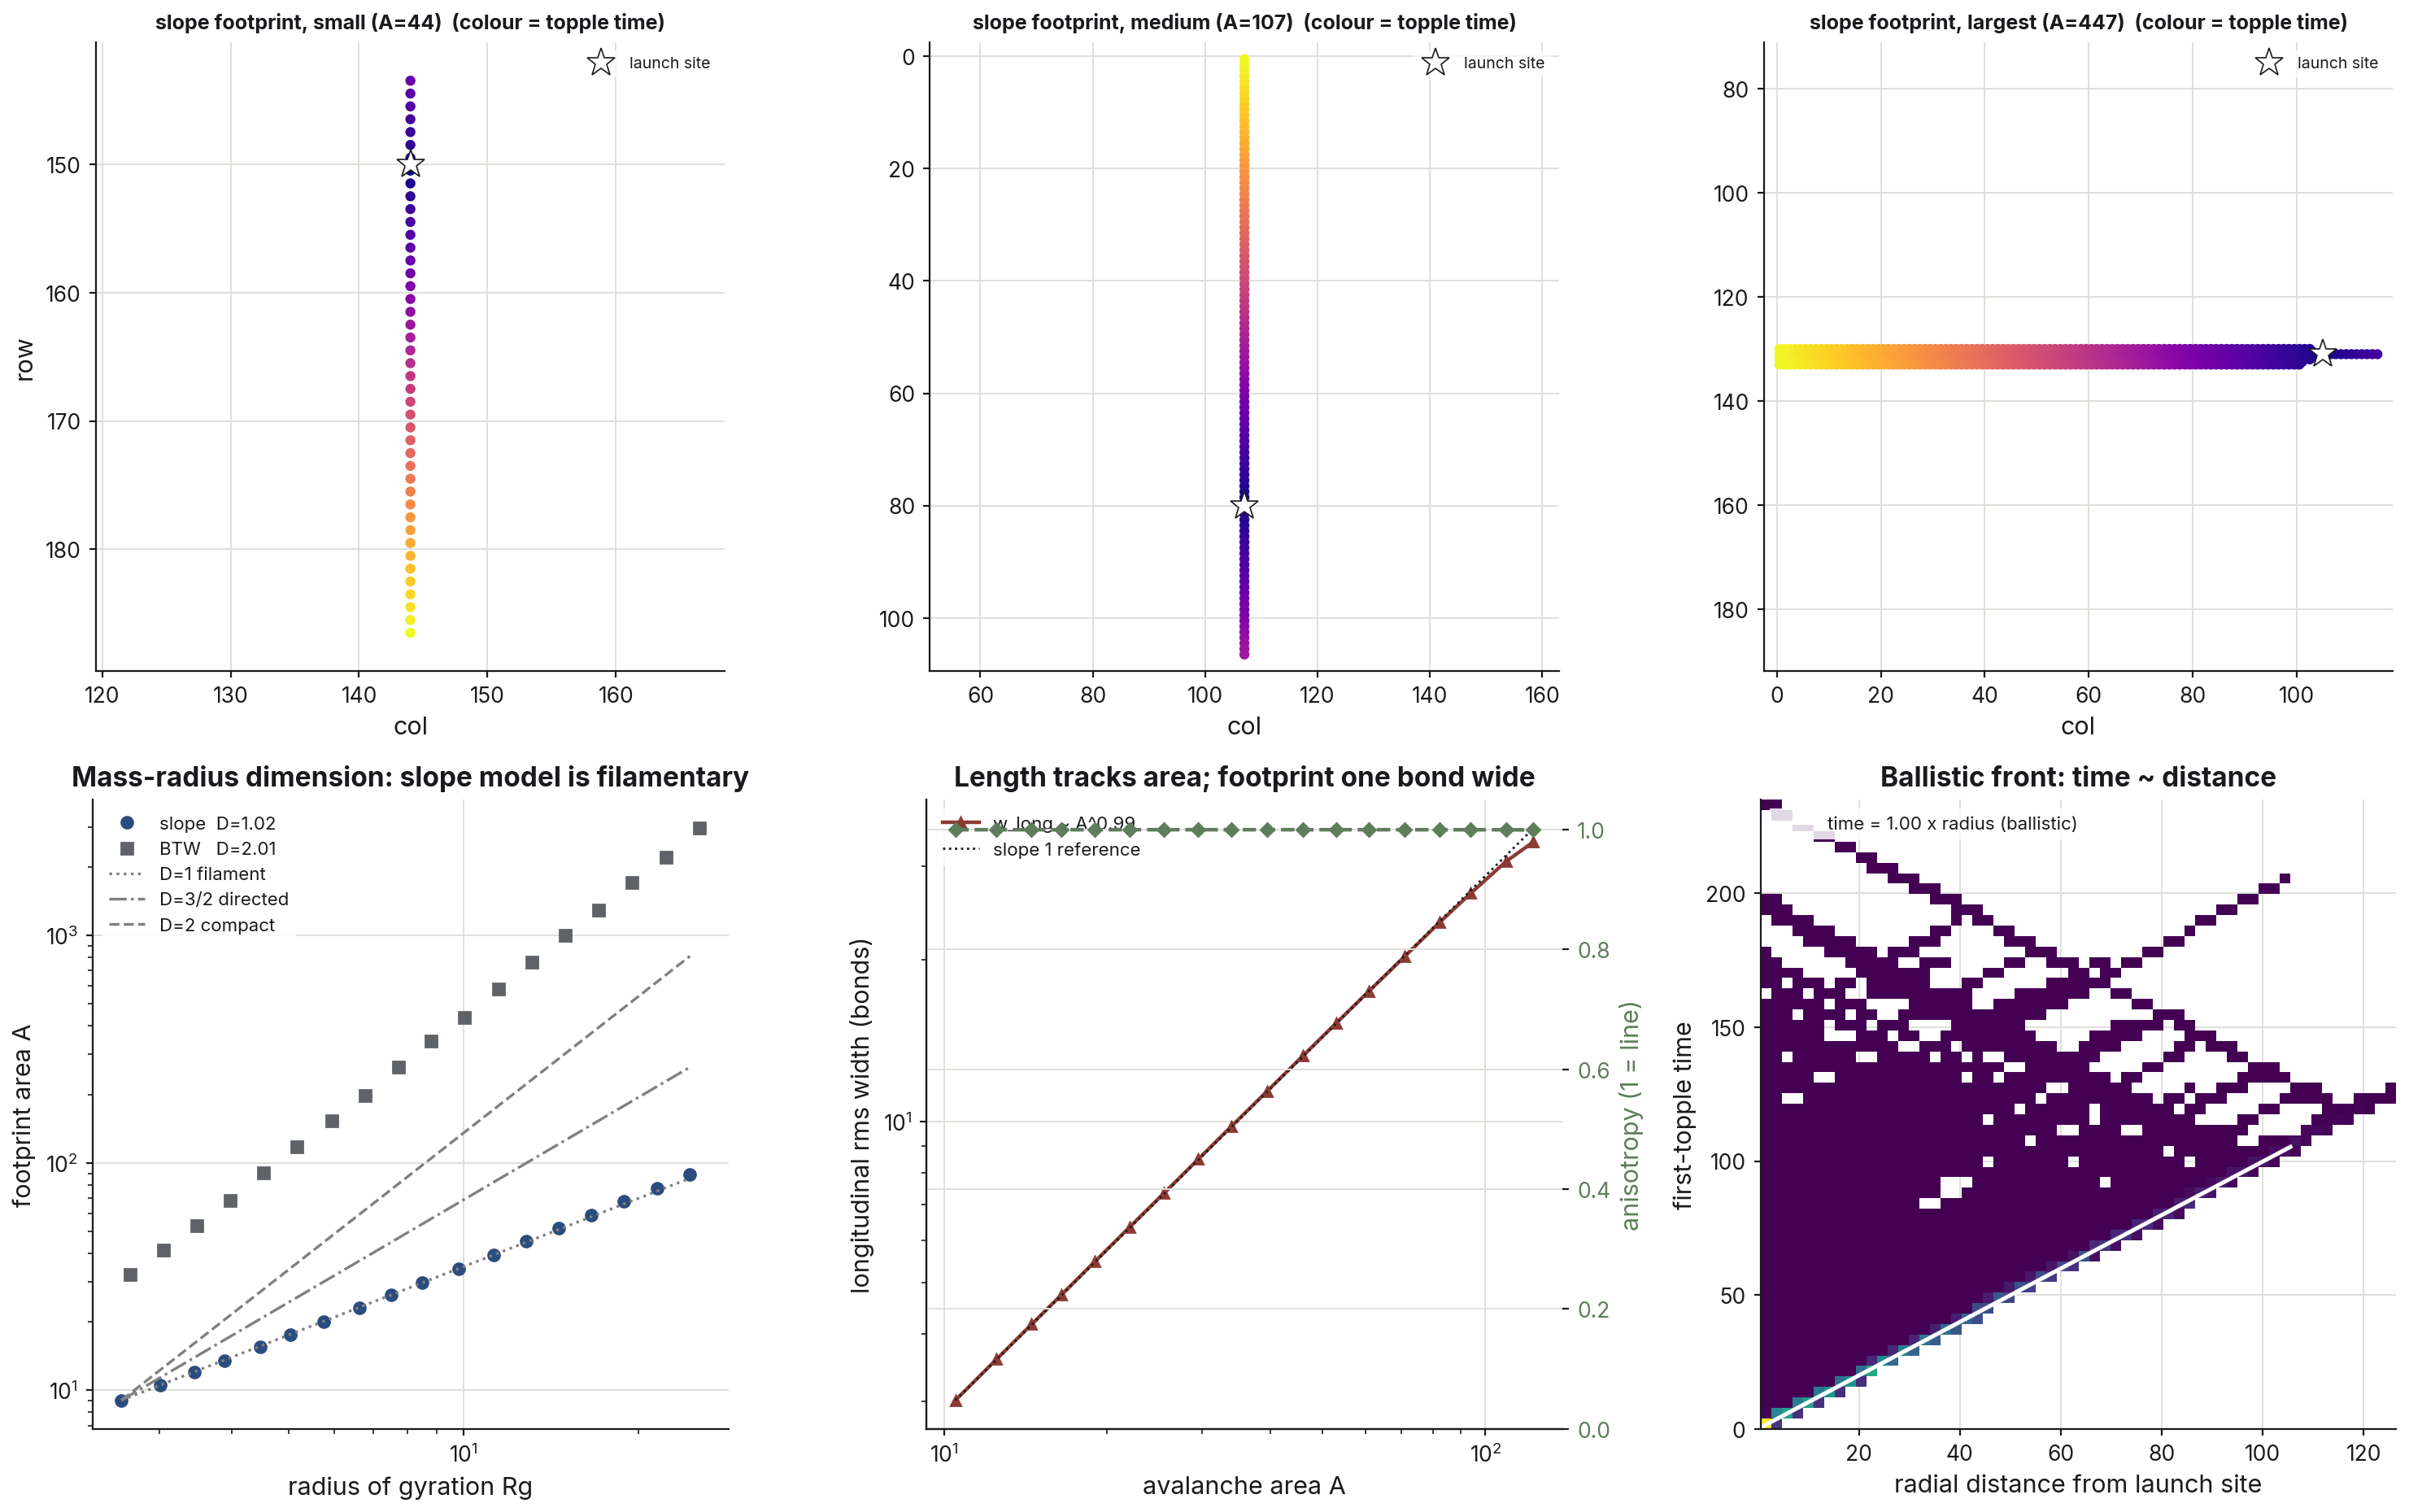
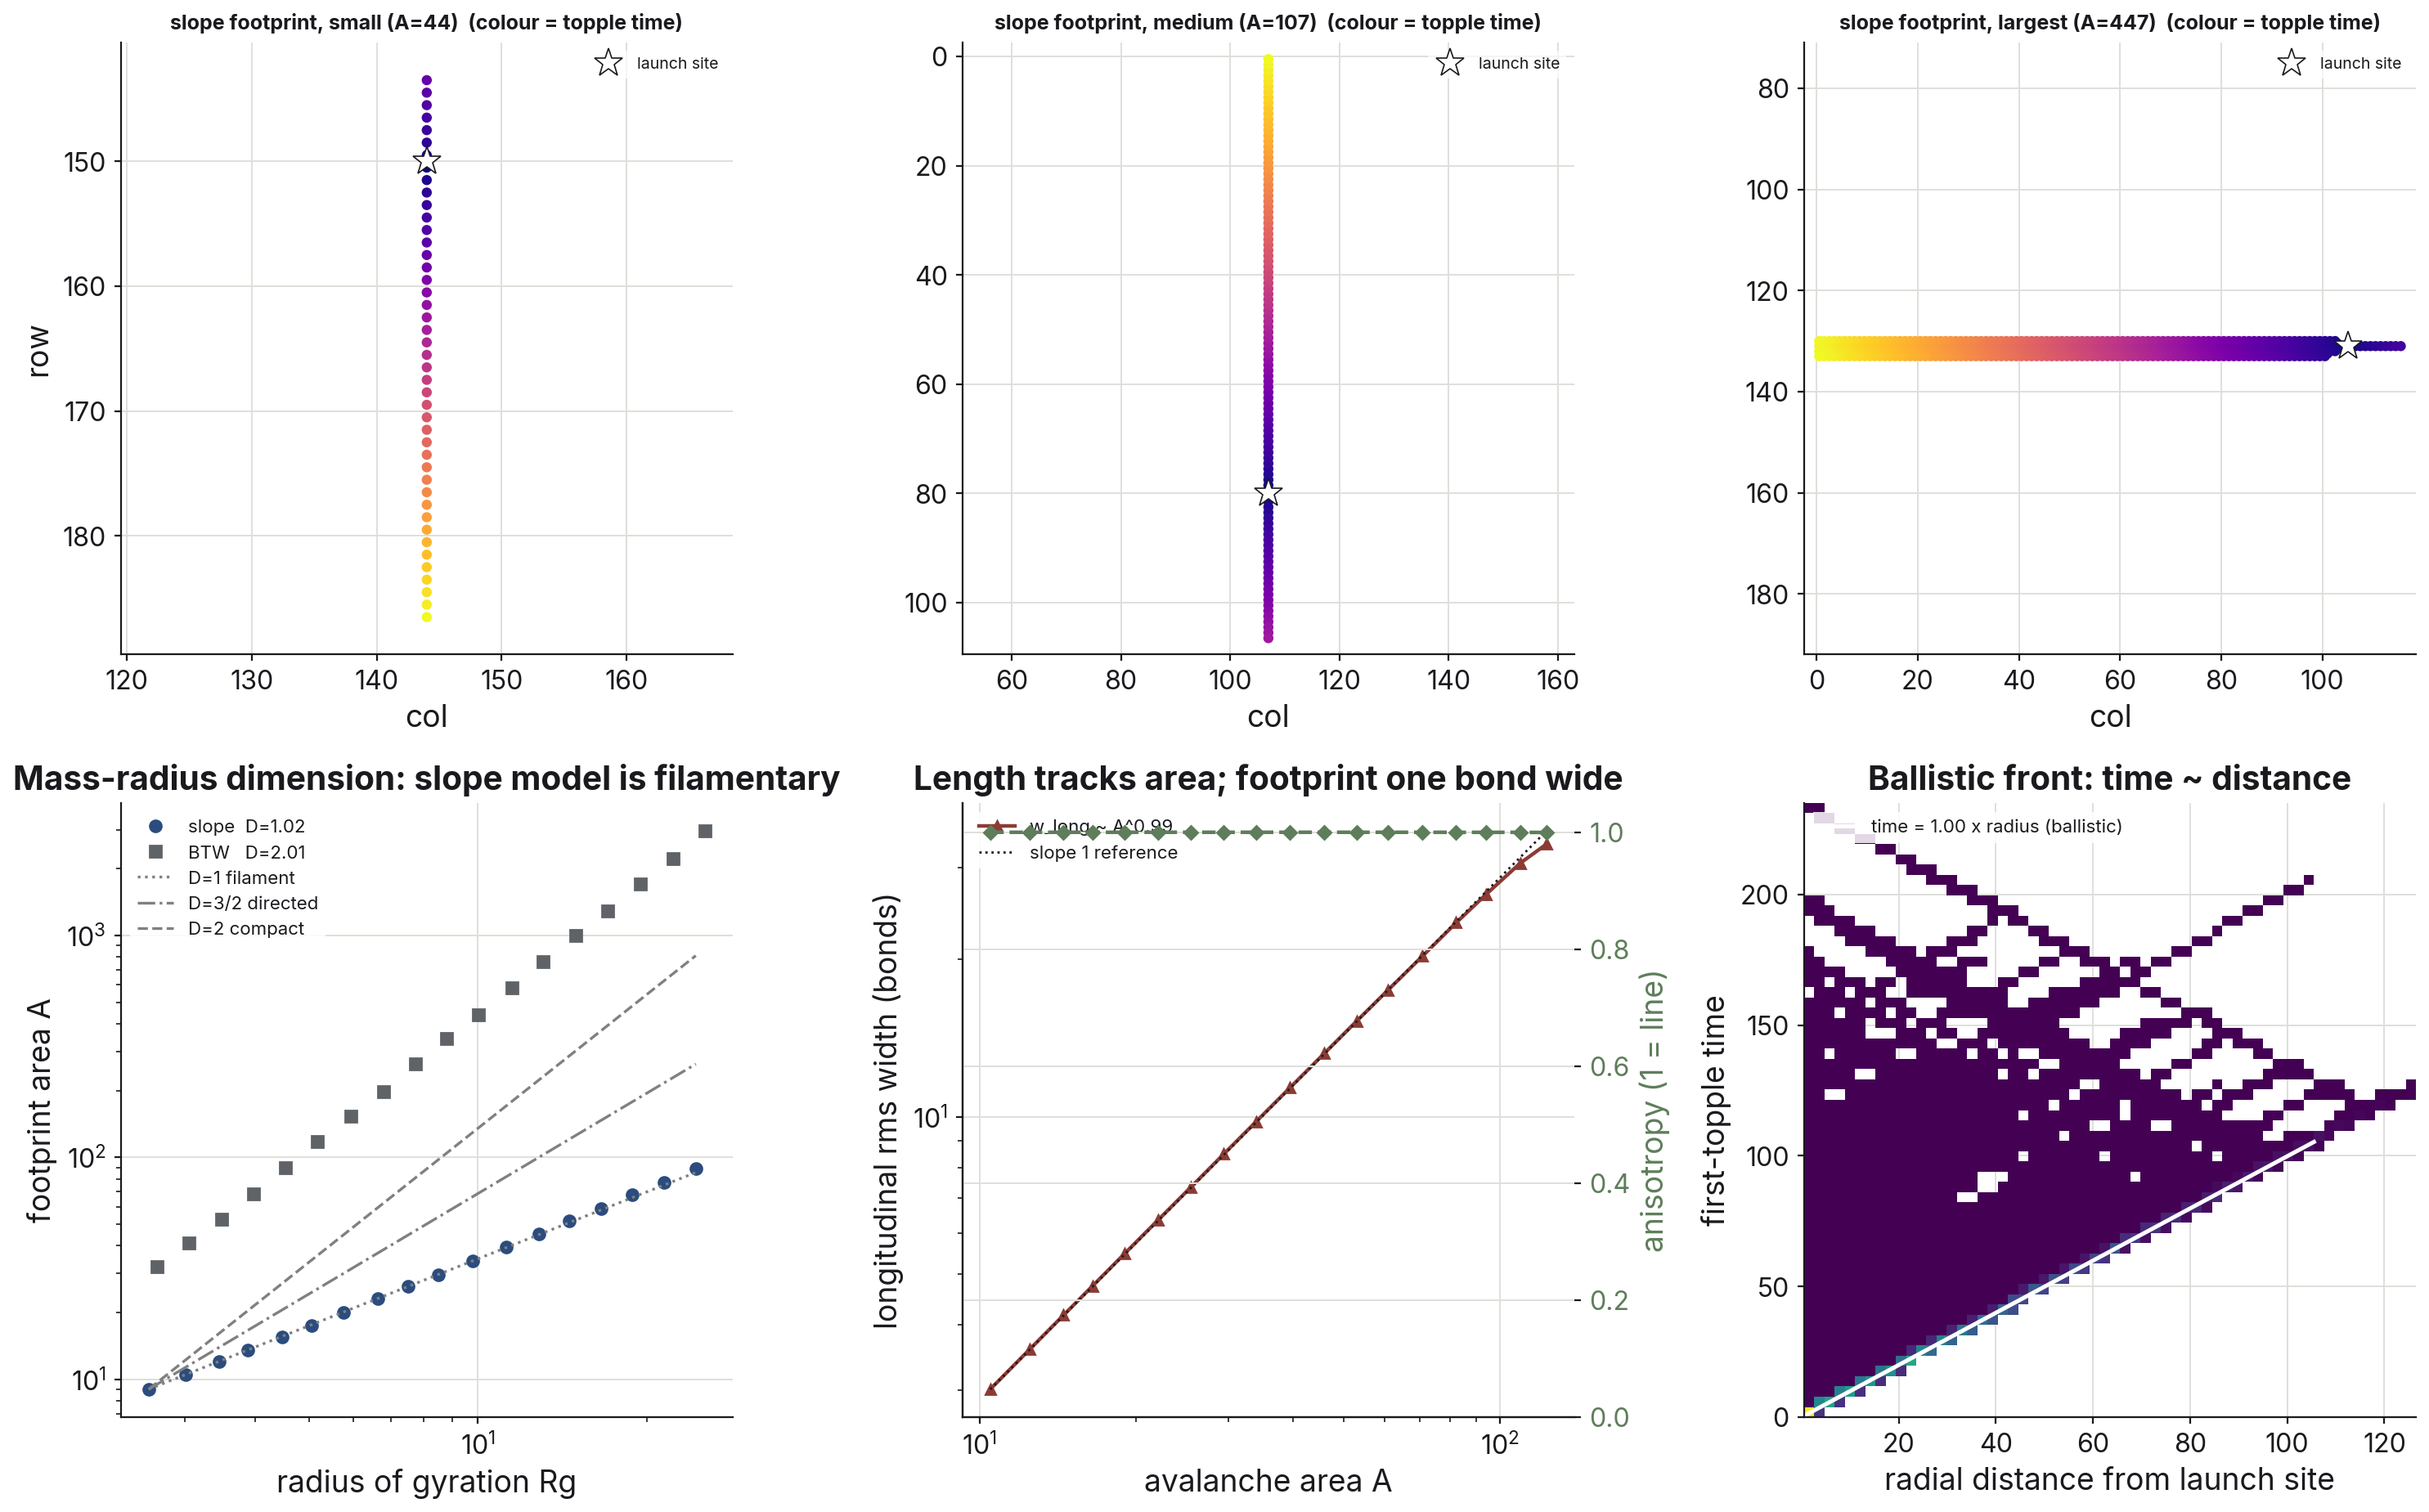
capstone: figure legibility pass
Audited all 18 site figures for effective on-page text size (11pt x
display/native width). Two fell near 10px from their own native width
and were re-rendered through the unchanged-script harness with new
figstyle env knobs (FIGSTYLE_FONT_SCALE / FIGSTYLE_TITLE_SCALE, default
1.0 = bit-identical): sandpile_geometry at 1.22x and filament_fattening
at 1.40x with titles at 1.05x. Both re-runs reproduced their findings
(D 1.02/2.01; mean/median slopes 0.99/0.90). many_wrongs_1 now displays
at wide width (10.8 -> 15.9px, no re-render, fallback rule intact).
Fixed the doubled-percent legend label (bottom 90%% area) in
filament_fattening.py. Colophon and log synced (155.25 h / 40 days /
180 commits).

diff --git a/logs.html b/logs.html
@@ -413,6 +413,11 @@
         <td class="hours-cell">3.50</td>
         <td>Capstone finalization: full acceptance-checklist pass on the live site, every quoted number re-verified against the findings files (one fix: the E6 jitter fraction), end-of-summer statistics recounted and corrected on the page, README brought to the summer-complete state, the two deliberately-open ship items closed, everything pushed and re-verified live. Summer closed.</td>
       </tr>
+      <tr data-date="2026-07-19">
+        <td class="date-cell">2026-07-19</td>
+        <td class="hours-cell">0.75</td>
+        <td>Figure legibility pass on the live site: measured every figure's effective on-page text size, re-rendered the two worst under the shared style with a new font-scale option (scripts untouched, numbers reproduced), widened the many-wrongs display, and fixed a doubled percent sign in a legend.</td>
+      </tr>
     </tbody>
     <tfoot>
       <tr>
@@ -599,6 +604,10 @@
     {
       date: "2026-07-18",
       body: "Closing day. The site has been live since Tuesday, but a checklist is not passed until every box is walked against the real page, so today was the deliberate finalization pass: go through the locked plan's acceptance criteria one by one on the live site, fix what they catch, and close the summer's books.\n\nThe number audit caught exactly one error. The earthquake section described the self-test jitter as one part in twenty-five per topple, but the finding draws alpha fresh within plus or minus 0.01 of its value of 0.15, which is one part in fifteen. The page now states it that way. Every other quoted number I re-checked, more than twenty across the three chapters, traced cleanly back to its numbered finding. The bigger catch was the colophon: its statistics had been computed when the capstone plan was written on July 9 and never moved, so the page was still reporting the totals as of July 5 (133.5 hours over 35 days, 166 commits, 130 scripts) while the capstone sessions themselves pushed the true numbers past them. The final accounting, recounted today from the log and the repository: 154.5 logged hours over 39 research days, 179 commits, 150 figures, 133 Python scripts, 123 findings. The capstone's own build hours were the one thing the capstone had failed to count.\n\nThree small repairs went in alongside. The page's research-log link now opens the rendered log instead of raw HTML source. A stylesheet edge case that could put a useless horizontal scrollbar on mid-width desktop windows (the viewport width unit includes the scrollbar gutter on Windows) is now clipped. And the README's opening, which still described the June state of the flocking chapter as the project status, now reads as the finished summer: three chapters, 123 findings, the sandpile chapter's closing results through the measured Manna anchor, and the site linked at its canonical address.\n\nOne more revision came out of reading the live page fresh: the launch-day voice pass had overshot. Too many paragraphs ended on a dramatic one-liner, and a few asides admired the work instead of reporting it. I went back through the whole page and flattened those into plain statements, cut the em dashes that had crept into the captions, and left every number untouched. A second read caught the quieter versions of the same thing, signpost fragments and rhetorical pivots, and cut those too. The page reads closer to a lab notebook now, which is the register it should have had from the start. The prose source file was updated to match.\n\nLooking at the page on a full 1920-pixel screen also showed the layout reading sparse: a small text block in a sea of margin, undersized figures, and the contents list floating in the gutter where the widest figures could slide under its longest lines while scrolling. Screens past 1600 pixels now get a larger scale, an 18-pixel body on a 720-pixel column with figures up to 1060, and the contents list is anchored just clear of the wide-figure edge at every width.\n\nThe teaser composite needed more than a stylesheet fix and got a presentation rebuild: its type was landing below ten screen pixels at display size, the three example footprints floated far apart with the one-bond filament drawn so thin it nearly vanished, and the forecast panel buried its events under dense stems with the legend sitting on the data. The rebuilt version sizes its type for the page, sets the footprints closer with the filament drawn heavy enough to carry the panel, and thins the forecast panel to a 50,000-iteration window with the legend in clear headroom. All three panels recompute from the research code with the same seeds, and the rebuild's printed checks reproduced the June numbers exactly: forecast precision 0.68 against chance 0.44, and 4 of the 43 largest events caught.\n\nThe two items I had left open on purpose are now closed. The byline stays course-only; the plan always allowed shipping without the advisor's name pending his OK, that is the right resting state, and adding the line later is a one-line edit if he confirms he wants it there. And the prose has had its final read in its real typography, which is what Tuesday's voice revision amounted to. After today's push the live page re-verified from a clean session at the canonical URL, preview card intact.\n\nThat is the summer. Three textbook chapters became three closed research arcs: a flock that is a directional averager with exactly one attack surface, a sandpile whose typical avalanche obeys an exact law while its tails keep their own statistics, and an earthquake model whose clock forecasts everything except the events that matter. 123 documented findings, nine pre-registered self-tests, ten corrections kept in the record rather than papered over, and one page that argues what it all adds up to. Claude was the verification and editing assistant for today's pass; the sign-off is mine."
+    },
+    {
+      date: "2026-07-19",
+      body: "A short follow-up day. Yesterday's teaser rebuild set a legibility bar, so today I measured the whole page against it: for each of the eighteen figures, how large does its base 11-point type actually land on screen at the width the page displays it? Most figures sit at a comfortable 12.5 to 20 pixels. Three fell short of 12.\n\nThe two worst were casualties of their own native width. The filament-geometry centerpiece and the typical-versus-tail fattening figure render at 14.8 and 15.8 inches across, which scaled their on-page text down to about 10 pixels. The shared figure style gained a font-scale option settable from the environment, defaulting to exactly the old behavior, and both figures were re-rendered through the same untouched-script harness at 1.22x and 1.40x. It took three tries: the first scale-up collided the long panel titles, so titles now scale separately from body text. Both re-runs recomputed their measurements from scratch and reproduced the findings' numbers, the mass-radius dimensions 1.02 against BTW's 2.01, and the mean and median area growth slopes 0.99 and 0.90. The third short figure, the many-wrongs scaling that keeps its committed rendering under the compute-budget rule, needed no computation at all: displaying it at the wide figure width instead of column width takes its text from 10.8 to 15.9 pixels.\n\nOne two-character repair along the way: the fattening figure's legend had read 'bottom 90%% area' with a doubled percent sign since it was first drawn in June, a printf escape left in a plain string. It reads correctly now. The run logs the re-renders overwrote were restored from version control, as in the original render session. Claude ran the audit and the renders; the calls are mine."
     }
   ];
 

diff --git a/docs/index.html b/docs/index.html
@@ -62,7 +62,7 @@
   <div class="stat-strip" aria-label="Project statistics">
     <div class="stat"><span class="num">3</span><span class="label">systems</span></div>
     <div class="stat"><span class="num">123</span><span class="label">findings</span></div>
-    <div class="stat"><span class="num">154.5</span><span class="label">hours</span></div>
+    <div class="stat"><span class="num">155.25</span><span class="label">hours</span></div>
     <div class="stat"><span class="num">133</span><span class="label">scripts</span></div>
     <div class="stat"><span class="num">9</span><span class="label">self-tests</span></div>
     <div class="stat"><span class="num">10</span><span class="label">corrections</span></div>
@@ -83,7 +83,7 @@
   <p>The model comes from Silverberg and colleagues' 2013 study of mosh pits: N self-propelled agents on a periodic plane with short-range repulsion, alignment, and noise. That is the whole model. The first weeks went to validation, which produced two results of its own. The first is an exact law: the equilibrium cruise speed is v<sub>0</sub> + &alpha;/&mu;, not the nominal v<sub>0</sub>. The second is a clean negative that took five findings to nail down: the solid-to-fluid change in this model is a smooth crossover, not a phase transition, at every compactness and repulsion hardness I could reach. After that the chapter asked one question in different forms: what moves a flock, and what does not.</p>
   <p>Give every agent a private, noisy estimate of a goal direction and the flock's heading error shrinks as one over the square root of N; the fitted slope across group sizes is &minus;0.52 against a predicted &minus;0.5. In practice a flock of hundreds navigates accurately on per-agent information that would leave any individual lost.</p>
 
-  <figure class="archive">
+  <figure class="wide">
     <img src="figures/many_wrongs_1.png" alt="Three panels. Left: cross-seed RMS heading error versus flock size N on log-log axes, falling along a one-over-square-root-of-N reference line with fitted slope minus 0.52. Middle: accuracy toward the true goal improving toward 1.0 as N grows. Right: heading error versus per-agent noise at N = 250, flat until roughly 60 degrees of per-agent error, then rising sharply.">
     <figcaption><span class="figno">Figure 1.</span> <strong>Accuracy rises with group size.</strong> Heading error falls as 1/&radic;N (fitted slope &minus;0.52 against the predicted &minus;0.5, left), so accuracy improves as the flock grows (middle); the averaging holds until per-agent noise reaches a ceiling near &sigma; &asymp; 1.3 rad (right). Shown in its archive rendering: regenerating this figure's data exceeds the site's per-figure compute budget, so the committed original is kept.</figcaption>
   </figure>
@@ -282,7 +282,7 @@
 
 <section id="colophon" class="colophon">
   <h2>Colophon</h2>
-  <p>123 documented findings (94 flocking, 22 sandpile, 7 earthquake) &middot; 154.5 logged hours over 39 research days &middot; 179 commits &middot; 150 figures &middot; 133 Python scripts. Built with NumPy, numba, and matplotlib. The performance engines (a 600&times; active-list sandpile engine, a 251&times; vectorized predator force) are validated bit-for-bit against their reference implementations, and every engine ships self-tests. Every figure on this page regenerates from a named script in the <a href="https://github.com/ninjahawk/swarmsim">repository</a>. Textbook: Paul Charbonneau, <em>Natural Complexity</em> (Princeton, 2017); flocking model from Silverberg et al., PRL 110, 228701 (2013). Findings, full-detail reports, and the day-by-day research log are in the repository. AI tools (Anthropic's Claude) were used as a coding and analysis assistant throughout, documented per session in the research log; the scientific decisions and interpretations are my own.</p>
+  <p>123 documented findings (94 flocking, 22 sandpile, 7 earthquake) &middot; 155.25 logged hours over 40 research days &middot; 180 commits &middot; 150 figures &middot; 133 Python scripts. Built with NumPy, numba, and matplotlib. The performance engines (a 600&times; active-list sandpile engine, a 251&times; vectorized predator force) are validated bit-for-bit against their reference implementations, and every engine ships self-tests. Every figure on this page regenerates from a named script in the <a href="https://github.com/ninjahawk/swarmsim">repository</a>. Textbook: Paul Charbonneau, <em>Natural Complexity</em> (Princeton, 2017); flocking model from Silverberg et al., PRL 110, 228701 (2013). Findings, full-detail reports, and the day-by-day research log are in the repository. AI tools (Anthropic's Claude) were used as a coding and analysis assistant throughout, documented per session in the research log; the scientific decisions and interpretations are my own.</p>
   <p>References:</p>
   <ol class="refs">
     <li>P. Charbonneau, <em>Natural Complexity: A Modeling Handbook</em>, Princeton University Press (2017).</li>

diff --git a/capstone/figstyle.py b/capstone/figstyle.py
@@ -34,6 +34,14 @@ SITE_FIGDIR = os.path.join(ROOT, "docs", "figures")
 
 DPI = 200          # forced on every savefig (originals ask 120-140)
 
+# Optional font scale for figures whose native width lands the base 11pt below
+# ~12 screen px at the page's display width. Set FIGSTYLE_FONT_SCALE in the
+# caller's environment; unset (1.0) reproduces the session-B style exactly.
+FONT_SCALE = float(os.environ.get("FIGSTYLE_FONT_SCALE", "1.0"))
+# Titles can be scaled separately: long multi-panel titles collide before the
+# small text does. Defaults to FONT_SCALE when unset.
+TITLE_SCALE = float(os.environ.get("FIGSTYLE_TITLE_SCALE", "0") or 0) or FONT_SCALE
+
 # ---- design tokens (plan section 5) ----
 PAPER = "#ffffff"   # figures ship on white; the page paper is #fcfcfa
 INK = "#1a1a1e"
@@ -102,14 +110,14 @@ def apply():
         # type
         "font.family": "sans-serif",
         "font.sans-serif": [family, "DejaVu Sans"],
-        "font.size": 11.0,
-        "axes.titlesize": 12.0,
+        "font.size": 11.0 * FONT_SCALE,
+        "axes.titlesize": 12.0 * TITLE_SCALE,
         "axes.titleweight": "bold",
-        "axes.labelsize": 11.0,
-        "xtick.labelsize": 9.5,
-        "ytick.labelsize": 9.5,
-        "legend.fontsize": 9.5,
-        "figure.titlesize": 13.0,
+        "axes.labelsize": 11.0 * FONT_SCALE,
+        "xtick.labelsize": 9.5 * FONT_SCALE,
+        "ytick.labelsize": 9.5 * FONT_SCALE,
+        "legend.fontsize": 9.5 * FONT_SCALE,
+        "figure.titlesize": 13.0 * TITLE_SCALE,
         "mathtext.fontset": "dejavusans",
         # geometry of the frame
         "axes.spines.top": False,
@@ -177,7 +185,7 @@ def _install_savefig_hook():
 
 def panel_label(ax, letter, dx=-0.02, dy=1.02):
     """Uniform panel label ('a', 'b', ...) top-left, outside the axes."""
-    ax.text(dx, dy, letter, transform=ax.transAxes, fontsize=13,
+    ax.text(dx, dy, letter, transform=ax.transAxes, fontsize=13 * FONT_SCALE,
             fontweight="bold", va="bottom", ha="right", color=INK)
 
 

diff --git a/sandpile/filament_fattening.py b/sandpile/filament_fattening.py
@@ -374,9 +374,9 @@ def _make_figure(data, Ls, Ls_big, bs, meanA_g, medA_g, repose):
     thr = np.quantile(A, TAIL_Q)
     typ = A < thr; tail = A >= thr
     ax[0].loglog(Rg[typ], A[typ], ".", ms=2, color="C0", alpha=0.25,
-                 label="typical (bottom 90%% area)")
+                 label="typical (bottom 90% area)")
     ax[0].loglog(Rg[tail], A[tail], ".", ms=3, color="C3", alpha=0.5,
-                 label="tail (top 10%% area)")
+                 label="tail (top 10% area)")
     if Rg.size:
         xr = np.array([max(Rg.min(), 1.0), Rg.max()])
         a0 = np.median(A[typ]) / np.median(Rg[typ]) ** 1.0